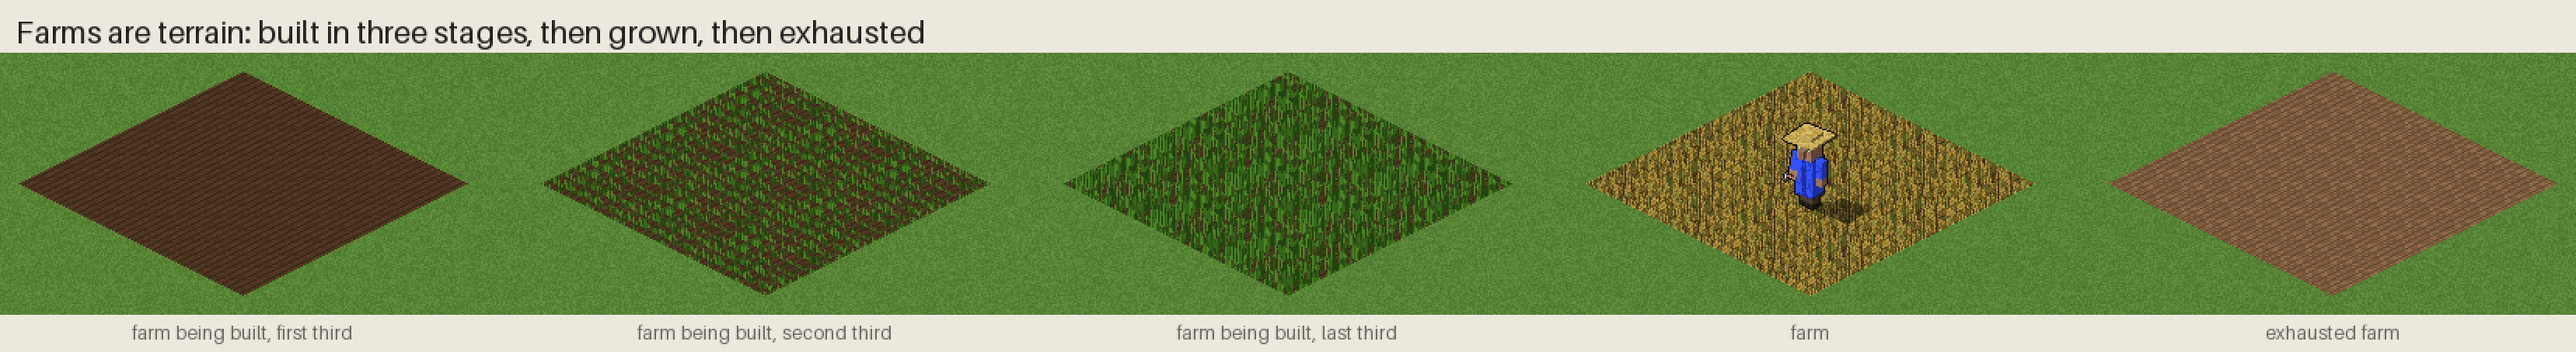
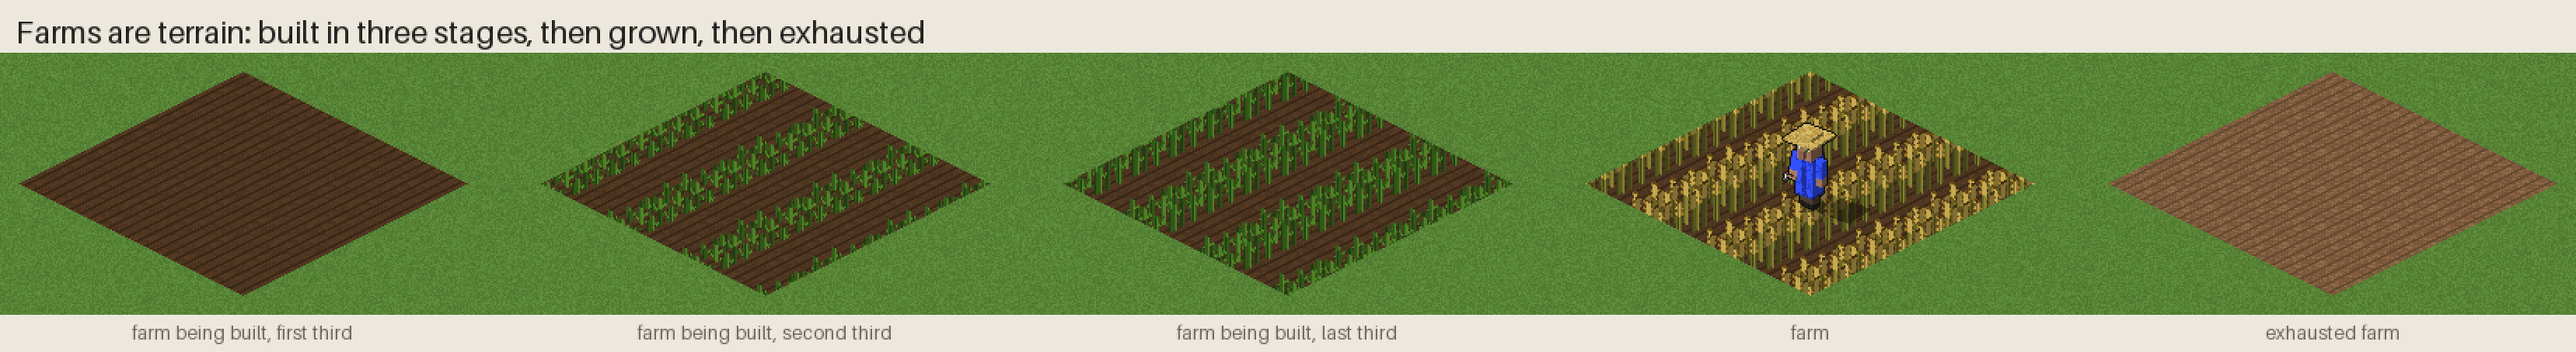
Grow the farm's wheat in thick rows, 2 blocks to a tile
In the game the ripe farm read as a noisy carpet: at 3 blocks to a tile
the thin, random wheat stalks were a pixel or two wide. The player
picked style E from the previews: the blocks are 1.5x bigger (2 to a
tile), the wheat has three stalks two texels thick with big grain heads
in flat colours, and it grows on every other row of blocks with bare
farmland between. The pattern still repeats every tile, so the tiles
join up. Only the farm textures change.

Changed region(s): [[0.2176, 0.2159, 0.5905, 0.8326], [0.6216, 0.2159, 0.9946, 0.8326], [0.0311, 0.3392, 0.1554, 0.7401]]

diff --git a/tools/aom/farmland.py b/tools/aom/farmland.py
@@ -7,10 +7,12 @@ Their textures are SLPs in terrain.drs, with one diamond-shaped frame per
 tile (97x49), picked by the tile's map position: 6x6 frames for the farm and
 the dead farm, 3x3 for the stages.
 
-Each texture becomes Minecraft farmland, 3 blocks to a tile (a tile is really
-2.83 blocks), with wheat that grows through the stages. The pattern repeats
-every tile, so the tiles join up whichever frame the game picks. Wheat that
-stands up into the tile behind is drawn in that tile too. Each new frame
+Each texture becomes Minecraft farmland, 2 blocks to a tile (a little bigger
+than the units' blocks, a tile being 2.83 of those, so the wheat reads at game
+size), with a row of wheat on every other row of blocks and bare farmland
+between. The wheat has thick stalks and grows through the stages. The pattern
+repeats every tile, so the tiles join up whichever frame the game picks. Wheat
+that stands up into the tile behind is drawn in that tile too. Each new frame
 fills exactly the pixels of the original frame, so its diamond and the
 blending with the ground around the farm stay as they were.
 """
@@ -25,7 +27,7 @@ from . import voxel as V
 from .geometry import cuboid
 from .palette import Quantiser
 from .render import Frame, fit_camera, render
-from .textures import FACES, Painter, parse
+from .textures import FACES, parse
 
 # the farm terrains in the .dat, and what each becomes
 FARM_TERRAINS = {29: "tilled", 30: "sprouts", 31: "growing", 7: "ripe", 8: "dead"}
@@ -34,8 +36,12 @@ FARM_SLPS = {15021: "tilled", 15022: "sprouts", 15023: "growing", 15004: "ripe",
 STAGES = {"tilled": "farm being built, first third", "sprouts": "farm being built, second third",
           "growing": "farm being built, last third", "ripe": "farm", "dead": "exhausted farm"}
 WHEAT = {"sprouts": 1, "growing": 4, "ripe": 7}  # Minecraft's growth stages, 0..7
-PER_TILE = 3  # blocks along a tile's side
-SCALE = 2 ** 0.5  # screen pixels per Minecraft pixel that make PER_TILE blocks one 96x48 tile
+PER_TILE = 2  # blocks along a tile's side
+
+
+def scale(per_tile: int) -> float:
+    """Screen pixels per Minecraft pixel that make `per_tile` blocks one 96x48 tile."""
+    return 48 / (per_tile * V.BLOCK * 0.5 ** 0.5)
 
 
 def farm_slps(terrains) -> list[tuple[int, str, str]]:
@@ -50,25 +56,29 @@ def farm_slps(terrains) -> list[tuple[int, str, str]]:
 
 
 def wheat(level: int, variant: int = 0) -> np.ndarray:
-    """A 16x16 wheat crop texture at a growth stage (0 seedlings .. 7 ripe), like Minecraft's."""
-    p = Painter(f"farm_wheat{level}_{variant}")
+    """A 16x16 wheat crop texture at a growth stage (0 seedlings .. 7 ripe): three stalks two texels thick, with
+    leaves while young and big grain heads from stage 5, in flat colours so they stay clear at game size."""
     tex = np.zeros((16, 16, 5), np.float32)
     ripe = level >= 7
-    stem = ("#8a9a36", "#a89a44") if ripe else ("#3f7a1e", "#5a9a2a")
-    head = ("#d8b850", "#b08a30", "#7a5a1c") if ripe else ("#7aa83a", "#5f8f2a", "#46701e")
-    top = 16 - int(round(3 + level * 1.6))  # how far up the tallest stalks reach
-    for c in range(16):
-        if p.rng.random() < 0.3:
-            continue  # gaps between the stalks
-        t = min(15, top + int(p.rng.integers(0, 4)))
-        tex[t:, c] = parse(stem[int(p.rng.integers(0, 2))])
-        if level >= 5:  # the ears: grains in two shades with a dark husk line
-            ear = min(16 - t, 3 + level - 5)
-            for r in range(t, t + ear):
-                tex[r, c] = parse(head[(r + c) % 2])
-            tex[t + ear - 1, c] = parse(head[2])
-        elif level >= 1 and t + 2 < 16 and c + 1 < 16 and p.rng.random() < 0.5:
-            tex[t + 1, c + 1] = parse(stem[1])  # a leaf
+    stem = ("#7a7a2a", "#9a9a3a") if ripe else ("#3a7020", "#5c9a2c")
+    grain = ("#e8c860", "#b8902e", "#7a5a1a") if ripe else ("#9ccf48", "#6fa42e", "#3f6a1a")
+    tall = 3 + level * 1.6
+    for i, c0 in enumerate((1, 6, 11)):
+        c0 += variant % 2
+        t = int(min(14, max(0, round(16 - tall + (i + variant) % 3 - 1))))
+        tex[t:, c0], tex[t:, c0 + 1] = parse(stem[0]), parse(stem[1])
+        if level >= 5:  # the head: kernels alternating left and right, a dark tip
+            head = min(15 - t, 3 + level - 5)
+            for r in range(t, t + head):
+                tex[r, c0:c0 + 2] = parse(grain[0])
+                side = c0 - 1 if (r - t) % 2 == 0 else c0 + 2
+                if 0 <= side < 16:
+                    tex[r, side] = parse(grain[1])
+            tex[max(0, t - 1), c0:c0 + 2] = parse(grain[2])
+        elif level >= 1:  # two leaves
+            for r, c in ((t + 2, c0 + 2), (t + 1, c0 + 3), (t + 4, c0 - 1), (t + 3, c0 - 2)):
+                if 0 <= r < 16 and 0 <= c < 16:
+                    tex[r, c] = parse(stem[1])
     return tex
 
 
@@ -84,30 +94,25 @@ def crop(s: V.Structure, x: int, y: int, sprite: np.ndarray) -> None:
         s.extras.append(cuboid((x0, y0 + at - 0.25, 0), (B, 0.5, B), faces))
 
 
-def field(stage: str, reach: int = 2) -> V.Structure:
+def field(stage: str, reach: int = 2, per_tile: int = PER_TILE) -> V.Structure:
     """Farmland around one tile, `reach` tiles each way; the tile's centre is the origin."""
-    n = PER_TILE
+    n = per_tile
     s = V.Structure(f"farmland_{stage}", origin=(n / 2, n / 2))
     block = "dry_farmland" if stage == "dead" else "farmland"
     level = WHEAT.get(stage)
-    sprites = {}
     for x in range(-reach * n, (reach + 1) * n):
         for y in range(-reach * n, (reach + 1) * n):
             s.set(x, y, -1, block)  # the top is the ground
-            if level is not None:
-                k = (x % n) * n + y % n  # the same nine plants in every tile
-                grown = level - 1 if level < 7 and k % 4 == 1 else level  # two a stage behind
-                if (grown, k) not in sprites:
-                    sprites[grown, k] = wheat(grown, k)
-                crop(s, x, y, sprites[grown, k])
+            if level is not None and y % 2 == 0:  # a row of wheat, then a row of bare farmland
+                crop(s, x, y, wheat(level, (x % n) * n + y % n))  # the same plants in every tile
     return s
 
 
 @lru_cache(maxsize=None)
-def texture(stage: str) -> tuple[Frame, tuple[int, int]]:
+def texture(stage: str, per_tile: int = PER_TILE) -> tuple[Frame, tuple[int, int]]:
     """The farm rendered from the game's camera, and the screen position of the centre tile's centre."""
-    root = field(stage).part(V.all_blocks())
-    cam = fit_camera(root, V.BUILDING_HEADING, scale=SCALE, pad=2)
+    root = field(stage, per_tile=per_tile).part(V.all_blocks())
+    cam = fit_camera(root, V.BUILDING_HEADING, scale=scale(per_tile), pad=2)
     frame = render(root, V.BUILDING_HEADING, camera=cam, shadow=False, outline=False)
     return frame, (int(cam.origin[0]), int(cam.origin[1]))
 
@@ -135,9 +140,9 @@ def encode(stage: str, original: bytes, quant: Quantiser) -> bytes:
     return slp.encode(tiles(stage, original, quant), props=slp.frame_props(original))
 
 
-def preview(stage: str, size: int = 3) -> np.ndarray:
+def preview(stage: str, size: int = 3, per_tile: int = PER_TILE) -> np.ndarray:
     """RGBA of a size x size tile farm as it lies on the map, its centre in the middle of the image."""
-    frame, (ox, oy) = texture(stage)
+    frame, (ox, oy) = texture(stage, per_tile)
     rgba = frame.to_rgba()
     hw, hh = 48 * size, 24 * size
     yy, xx = np.mgrid[-hh:hh + 1, -hw:hw + 1]

diff --git a/docs/INSTALL.md b/docs/INSTALL.md
@@ -89,9 +89,10 @@ next to `build_mod.bat`. You have two options:
   Central European, Middle Eastern, Asian, Meso-American) and every age, with
   walls, gates, towers, castles, docks and the eighteen wonders.
 * Farms are Minecraft farmland. A farm is part of the ground in this game,
-  so the build replaces its textures in `terrain.drs`. While a villager
-  builds a farm, the wheat sprouts and grows. A finished farm is ripe golden
-  wheat, and an exhausted farm is dry farmland. The edges blend into the
+  so the build replaces its textures in `terrain.drs`. The wheat grows in
+  rows with bare farmland between them. While a villager builds a farm, the
+  wheat sprouts and grows. A finished farm is ripe golden wheat, and an
+  exhausted farm is dry farmland. The edges blend into the
   grass as the original farms do.
 * The panels at the top and bottom of the screen are Minecraft style. The
   parchment is the grey of Minecraft's inventory, the dark area behind the

diff --git a/CLAUDE.md b/CLAUDE.md
@@ -89,7 +89,7 @@ putting `tools/` on `sys.path`.
   With mirroring, `a // 2 + 1` angles are stored (S, SW, W, NW, N) and the game mirrors the rest.
 - **Wall frames have a fixed meaning:** 0 `/`, 1 `\`, 2 the post (at ends and corners), 3 `--`, 4 `|`.
 - **Terrain tiles must fit together.** The game picks a terrain frame by map position, so a farm texture repeats
-  every tile (3 blocks to a tile, camera scale √2). Each new frame fills exactly the original frame's pixels.
+  every tile (`farmland.PER_TILE` = 2 blocks to a tile, camera scale `farmland.scale`). Each new frame fills exactly the original frame's pixels.
 - **Don't change Pac-Man without asking.** His `.dat` patch, icon, sounds and name took many rounds of testing in
   the player's game.
 - **Seed randomness with `zlib.crc32`, never `hash()`.** Python's string hashes change every run, so the sprites and

diff --git a/docs/DESIGN.md b/docs/DESIGN.md
@@ -131,7 +131,9 @@ In The Conquerors a farm is not a sprite: it is part of the ground. A farm
 changes the terrain under it, and the farm's look is a terrain texture in
 `terrain.drs`. There are five of them: three stages while a villager builds
 the farm, the finished farm, and the exhausted farm. Each becomes Minecraft
-farmland, 3 blocks to a tile:
+farmland, 2 blocks to a tile (a little bigger than the units' blocks, so the
+wheat is easy to see), with rows of wheat and rows of bare farmland between
+them. The wheat has thick stalks and big grain heads in flat colours:
 
 | AoE2 | Minecraft |
 |---|---|
